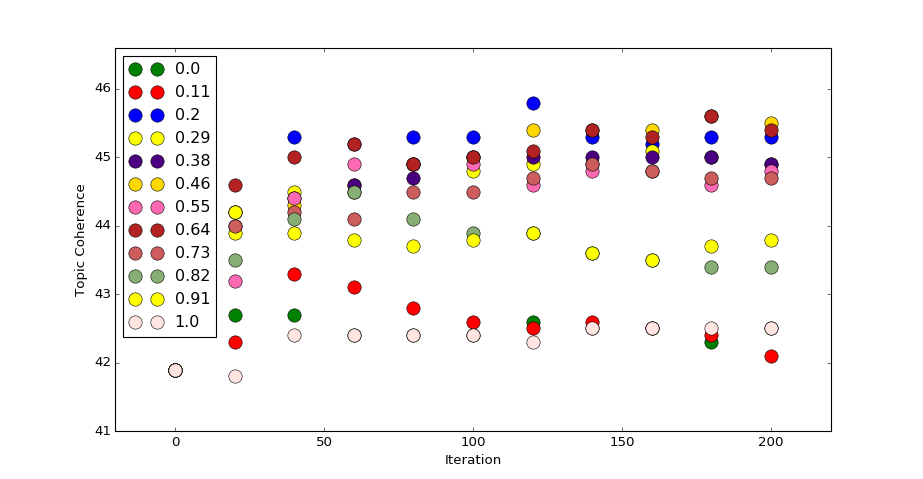
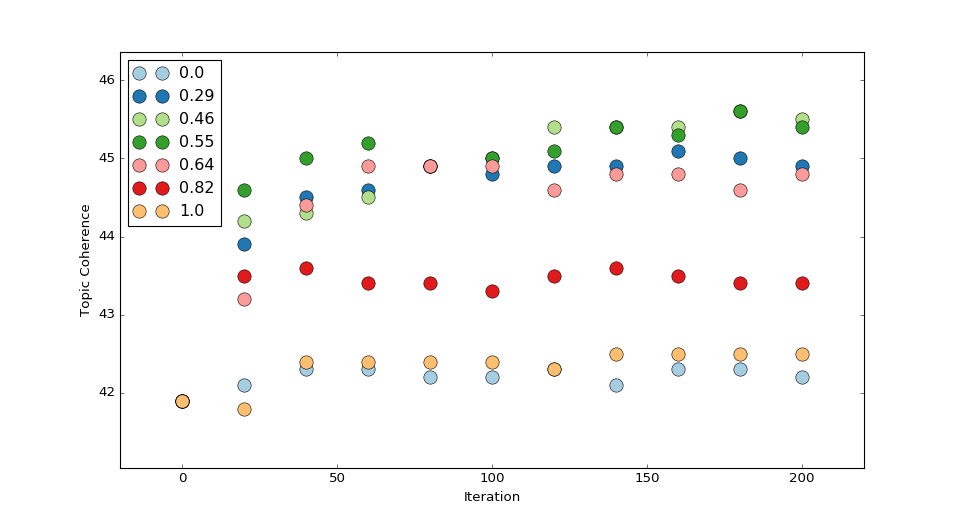
Thesis

diff --git a/thesis/thesis.tex b/thesis/thesis.tex
@@ -1247,6 +1247,7 @@ We discard all words that we cannot match in this way.
 \end{algorithm}
 
 \subsection{Background topic for corpus-specific stop words}
+\label{sec:background_topic}
 To speed up the topic improvement process, we detect corpus-specific stop words in addition to the general English-language stop words we use (see Section~\ref{sec:data_sets}).
 We detect this stop words automatically during the initial LDA Gibbs sampling.
 Instead of using a symmetric Dirichlet $\alpha$ prior for all topics, we multiply the $\alpha_0$ prior by a factor $\alpha_0^{boost}$.
@@ -1620,33 +1621,45 @@ This results in roughly constant values for $\lambda = 1.0$.
 Also see Section~\ref{sec:raw_tm_we}, where we experiment with a topic model solely based on word embeddings.
 
 All the other $\lambda$ parameters follow a clearly rising trend.
-Around iteration $140$, the values tend to reach their optimum and stay there except some random fluctuations.
+Especially the huge improvement from $\lambda_{act} = 0.0$ to $\lambda_{act} = 0.29$ shows, that the base idea of resampling words during the Gibbs sampling works.
+The values tend to reach their optimum around iteration $140$ and stay there except some random fluctuations.
 The best topic coherence value is reached with $\lambda_{act} = 0.47$ with a topic coherence of $47.4$.
-Topic coherence values less than or greater than this $\lambda_{act}$ lead to worse topic coherence.
-It seems and the Gibbs sampling gets stuck in a local optimum.
-Thus, as in standard topic models, it seems best to rerun the model several times and pick the best.
-This is an improvement of $0.051$ over the baseline value.
+Topic coherence values less than or greater than this $\lambda_{act}$ lead to worse topic coherence, which indicates that this value achieves a good balance between topic model and word embeddings.
+All together, this is an improvement of $5.1$ over the baseline value.
 
 We now present the results for running with the embeddings trained on Wikipedia.
 Interestingly, the topic coherence values are lower on average when using this embeddings.
 This goes against the intuition, because topic coherence is evaluated using Wikipedia as a reference corpus.
 One would expect, that knowledge from the Wikipedia corpus leaks into the topics during resampling, and thus leads to better topic models.
 However, this is not the case.
-The observations for $\lambda = 0.0$ and $\lambda = 1.0$ are the same as above.
-However, here also $\lambda = 0.8$ and $\lambda = 0.9$ are significantly worse than the rest.
+The observations for $\lambda_{act} = 0.0$ and $\lambda_{act} = 1.0$ are the same as above.
+However, the same phanomenon as for $\lambda_{act} = 1.0$ here also occurs already for $\lambda_{act} = 0.82$.
 The reason for this is the same as above: resampling too often throws away the corpus and just operates on the embeddings.
-The best results with this embeddings is only $0.458$ as compared to $0.474$ with the other embeddings.
-This is only an improvement of $0.039$ over the baseline value.
-We illustrate the change of topics in \textsc{Nips} and \textsc{20News} in Table~\ref{table:topic_development}.
+The best results with this embeddings is only $45.8$ as compared to $47.4$ with the other embeddings.
+This is only an improvement of $3.9$ over the baseline value.
 
 \begin{figure}
        \centering
        \includegraphics[width=\textwidth]{figures/welda_gaussian_lambda_200.png}
-       \caption{Topic coherence development for Gaussian WELDA and \textsc{Wikipedia} as embedding corpus. Topic coherence was evaluated every 20 iterations.}
+       \caption{Topic coherence development for Gaussian WELDA and Wikipedia as embedding corpus.}
        \label{fig:welda_gaussian_lambda_200}
 \end{figure}
 
-% TODO: Nips
+The results for the \textsc{Nips} corpus are similar.
+Medium $\lambda_{act}$ values between $0.4$ and $0.6$ produce the best results.
+With corpus-specific embeddings, the maximum is reached at $TC = 42.2$, yielding an improvement of $1.3$ over the baseline.
+Contrary to the \textsc{20News} corpus, the results are similar with Wikipedia embeddings.
+The best value is $TC = 42.4$.
+The respective graphs for the \textsc{Nips} corpus can be seen in Appendix~\ref{sec:appendix_nips_lambda}.
+The improvement for this corpus is much smaller than before, even though the baseline was lower.
+This answers the initial question, on which type of corpus WELDA works better: the general \textsc{20News} corpus as opposed to the narrow, technical \textsc{Nips} corpus.
+When the focus is narrow, many top topic words are close in the embedding space, therefore many topic distributions are similar.
+Because of this, WELDA is not able to produce words, which clearly distinguish different topics during the resampling.
+
+Finally, we give a qualitative overview over WELDA's topics.
+In Table~\ref{table:topic_development}, we illustrate the change of topics in \textsc{Nips} and \textsc{20News} before and after WELDA iterations.
+For both corpora, we picked the best model from above and compared it to standard LDA's topics.
+
 \begin{table}[]
   \ra{1.15}
   \centering
@@ -1669,26 +1682,33 @@ We illustrate the change of topics in \textsc{Nips} and \textsc{20News} in Table
 \subsubsection{Influence of the number of PCA dimensions $N_{PCA}$}
 \subsubsection{Influence of the number of distribution estimation samples $N_{TOP}$}
 \subsubsection{Influence of the background topic}
-confirming both the fact, that WELDA reaches similar values without background word sampling, and the fact, that it speeds up the process.
+
+This confirms both facts, that we hypothesized in Section~\ref{sec:background_topic}:
+WELDA reaches similar topic coherence values without background word sampling, and the fact, that it speeds up the process.
 \subsubsection{Running LDA as a prerequisite}
 This initial setup has a topic coherence value of $TC = 0.311$.
+
+After same experiments, we set $\lambda = $
 
 TODO: Introduction text
 To prove this thought experiment, we run WELDA with randomly initialized topics for $1500$ iterations on the \textsc{20News} corpus with $\lambda = 0.2$ and $\lambda = 0.5$.
 The results are displayed in Figure~\ref{fig:standard_lda_as_prerequisite}.
 As expected, TODO
 
-\begin{figure}
-       \centering
-       \includegraphics[width=\textwidth]{figures/standard_lda_alpha_beta.png}
-       \caption{TODO.}
-       \label{fig:standard_lda_as_prerequisite}
-\end{figure}
+% \begin{figure}
+%        \centering
+%        \includegraphics[width=\textwidth]{figures/standard_lda_alpha_beta.png}
+%        \caption{TODO.}
+%        \label{fig:standard_lda_as_prerequisite}
+% \end{figure}
 
 
 
 \subsubsection{Choice of word embeddings}
+\subsubsection{Strange behaviour for $\lambda_{act} = 1.0$}
 \subsubsection{Random fluctuations in WELDA}
+It seems and the Gibbs sampling gets stuck in a local optimum.
+Thus, as in standard topic models, it seems best to rerun the model several times and pick the best.
 \subsubsection{Top word selection}
 
 \subsubsection{Overfitting with high lambda}
@@ -1992,7 +2012,24 @@ fewer: dimensions: slower runtime, loosing information; more dimensions, usually
 % \printbibliography
 
 \begin{appendices}
+
 \chapter{Plots}
+\section{WELDA discussion}
+\subsection{Experiments with different $\lambda$ values on the NIPS corpus.}
+\label{sec:appendix_nips_lambda}
+  \begin{figure}[H]
+       \centering
+       \includegraphics[width=\textwidth]{figures/welda_gaussian_nips_50.png}
+       \caption{Topic coherence development for Gaussian WELDA on \textsc{Nips} with corpus-specific embeddings}
+       \label{fig:welda_gaussian_nips_50}
+\end{figure}
+\begin{figure}[H]
+       \centering
+       \includegraphics[width=\textwidth]{figures/welda_gaussian_nips_200.png}
+       \caption{Topic coherence development for Gaussian WELDA on \textsc{Nips} with Wikipedia as embedding corpus}
+       \label{fig:welda_gaussian_nips_200}
+\end{figure}
+
 
 \end{appendices}
 
